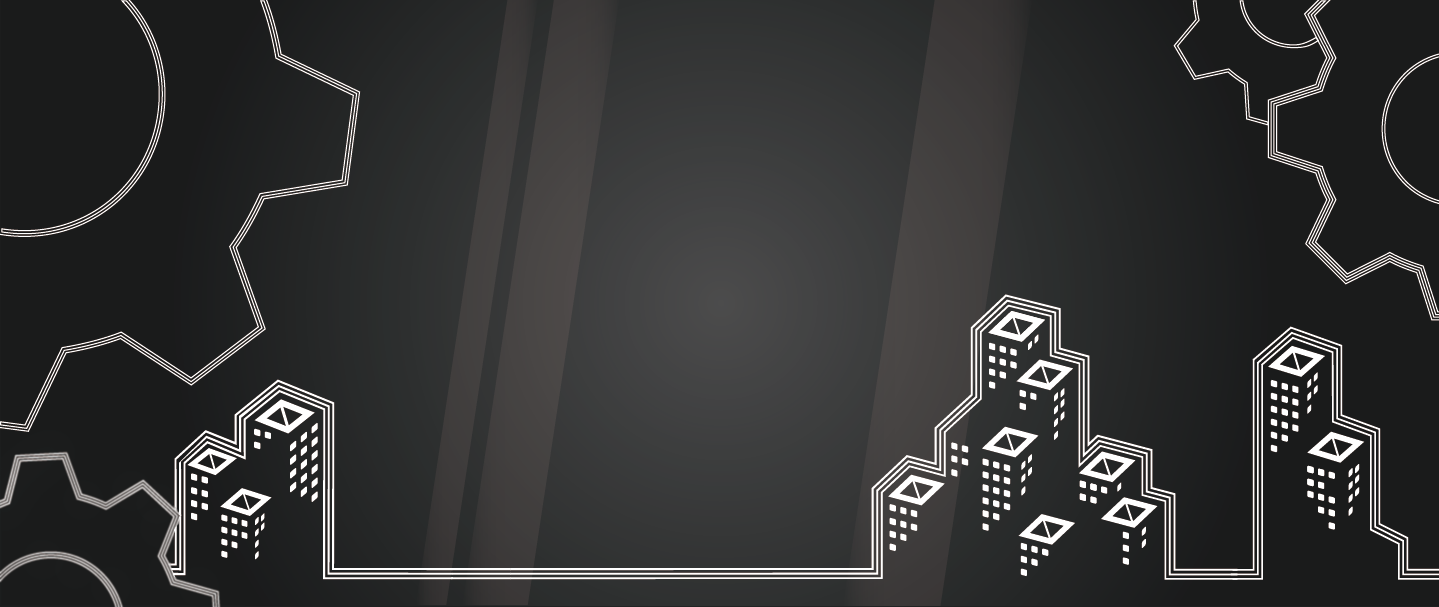
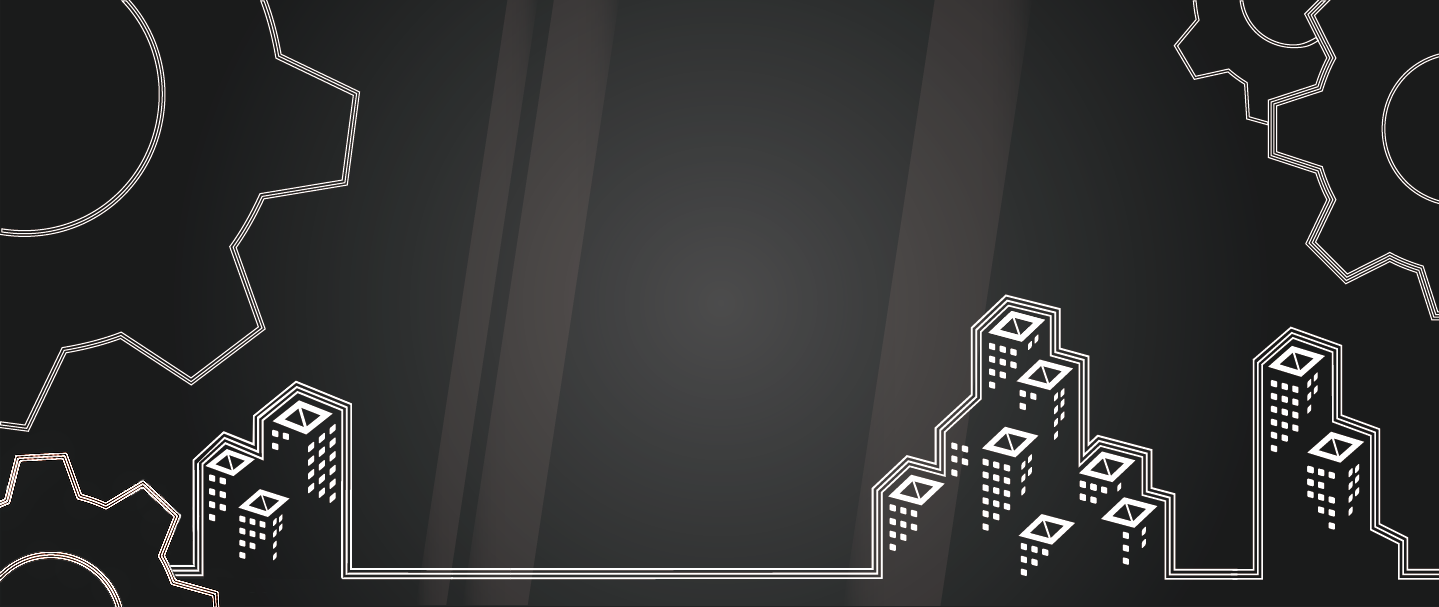
intro line-height and footer image

Changed region(s): [[0.0, 0.6227, 0.2446, 1.0]]

diff --git a/public/css/index/index.css b/public/css/index/index.css
@@ -253,7 +253,7 @@ section {
 #intro > .content > div > p {
     /*font-size: 1.4em;*/
     font-size: 1.1em;
-    /*line-height: 1.9;*/
+    line-height: 1.7;
 }
 
 /*******************************/
@@ -320,7 +320,7 @@ section {
     position: absolute;
     color: #ffffff;
     bottom: 7%;
-    left: 25.5%;
+    left: 26.5%;
 }
 
 /*******************************/
